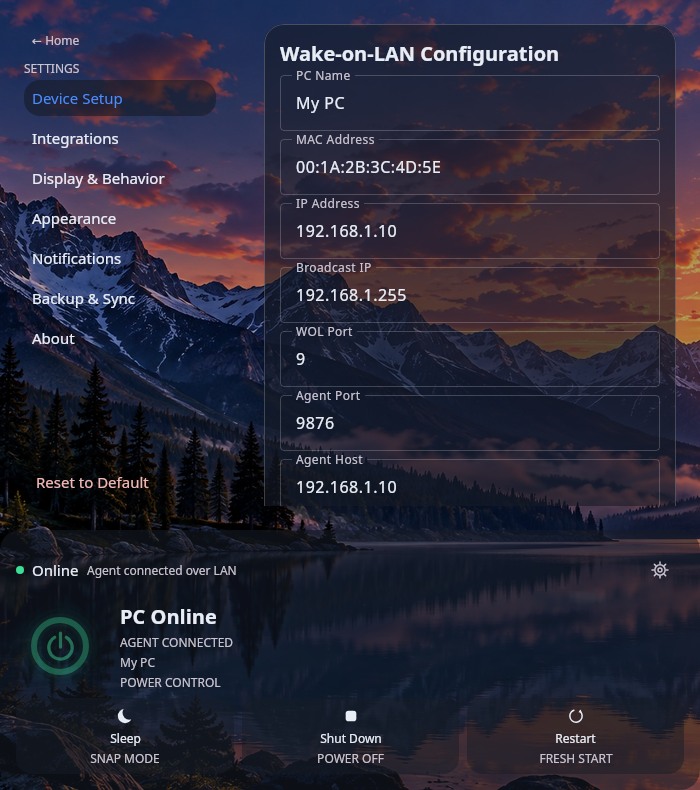
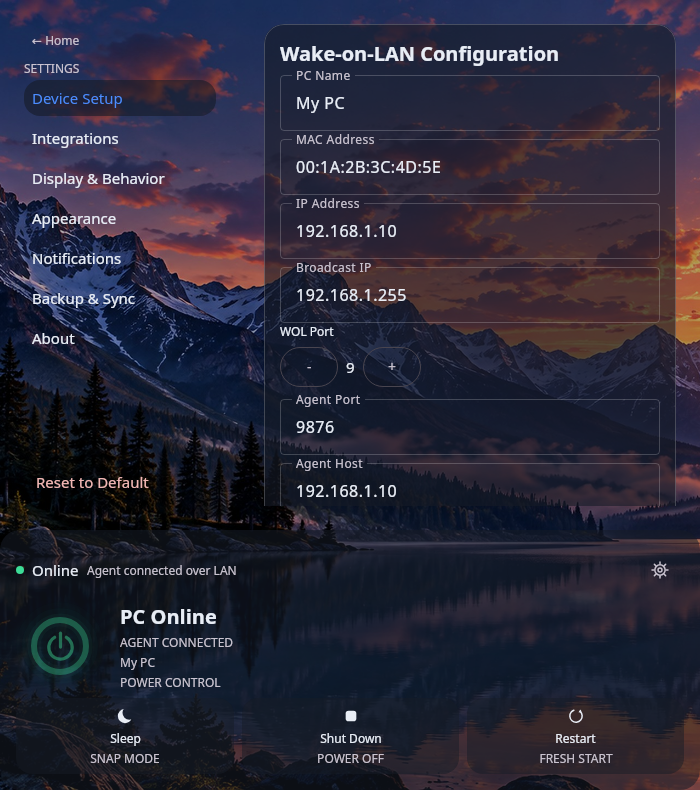
feat: turn saved computers into the device selector

Changed region(s): [[0.42, 0.4557, 0.57, 0.638], [0.57, 0.4861, 0.93, 0.5165], [0.39, 0.3949, 0.51, 0.4557]]

diff --git a/mobile/composeApp/src/desktopTest/kotlin/com/xukunz/wakeupmywall/ui/settings/SavedComputersTest.kt b/mobile/composeApp/src/desktopTest/kotlin/com/xukunz/wakeupmywall/ui/settings/SavedComputersTest.kt
@@ -1,0 +1,89 @@
+package com.xukunz.wakeupmywall.ui.settings
+
+import androidx.compose.ui.test.ExperimentalTestApi
+import androidx.compose.ui.test.onNodeWithTag
+import androidx.compose.ui.test.performClick
+import androidx.compose.ui.test.runComposeUiTest
+import com.xukunz.wakeupmywall.core.theme.WakeUpMyWallTheme
+import com.xukunz.wakeupmywall.domain.model.MacAddress
+import com.xukunz.wakeupmywall.domain.model.PcDevice
+import com.xukunz.wakeupmywall.domain.usecase.DeviceSetupInput
+import com.xukunz.wakeupmywall.domain.usecase.DeviceSetupValidator
+import kotlin.test.Test
+import kotlin.test.assertEquals
+
+@OptIn(ExperimentalTestApi::class)
+class SavedComputersTest {
+
+    private val devices = listOf(
+        PcDevice(id = "my-pc", name = "My PC", macAddress = MacAddress.parse("00:1A:2B:3C:4D:5E"), isDefault = true),
+        PcDevice(id = "study", name = "Study PC", macAddress = MacAddress.parse("00:1B:44:11:3A:9C")),
+    )
+
+    private val input = DeviceSetupInput("My PC", "00:1A:2B:3C:4D:5E", "", "192.168.1.255", "9", "9876", "")
+
+    private fun content(
+        devices: List<PcDevice> = this.devices,
+        onSelectDevice: (String) -> Unit = {},
+        onDeleteDevice: (String) -> Unit = {},
+        onAddDevice: () -> Unit = {},
+    ): @androidx.compose.runtime.Composable () -> Unit = {
+        WakeUpMyWallTheme {
+            DeviceSetupScreen(
+                input = input,
+                result = DeviceSetupValidator.validate(input),
+                devices = devices,
+                report = null,
+                isTesting = false,
+                onInputChange = {},
+                onSave = {},
+                onTestConnection = {},
+                onSelectDevice = onSelectDevice,
+                onDeleteDevice = onDeleteDevice,
+                onAddDevice = onAddDevice,
+            )
+        }
+    }
+
+    @Test
+    fun `rows select a device, delete reports an id and add is reachable`() = runComposeUiTest {
+        var selected: String? = null
+        var deleted: String? = null
+        var added = false
+        setContent(
+            content(
+                onSelectDevice = { selected = it },
+                onDeleteDevice = { deleted = it },
+                onAddDevice = { added = true },
+            ),
+        )
+
+        onNodeWithTag("device:row:study").performClick()
+        assertEquals("study", selected)
+
+        onNodeWithTag("device:delete:study").performClick()
+        assertEquals("study", deleted)
+
+        onNodeWithTag("device:add").performClick()
+        assertEquals(true, added)
+    }
+
+    @Test
+    fun `the default device is badged and the active row is the selected one`() = runComposeUiTest {
+        setContent(content(devices = devices))
+
+        onNodeWithTag("device:default:my-pc", useUnmergedTree = true).assertExists()
+        onNodeWithTag("device:row:my-pc").assertExists()
+        onNodeWithTag("device:row:study").assertExists()
+    }
+
+    @Test
+    fun `an empty list still offers the add button`() = runComposeUiTest {
+        var added = false
+        setContent(content(devices = emptyList(), onAddDevice = { added = true }))
+
+        onNodeWithTag("device:add").performClick()
+
+        assertEquals(true, added)
+    }
+}

diff --git a/mobile/composeApp/src/commonMain/kotlin/com/xukunz/wakeupmywall/ui/settings/DeviceSetupScreen.kt b/mobile/composeApp/src/commonMain/kotlin/com/xukunz/wakeupmywall/ui/settings/DeviceSetupScreen.kt
@@ -1,5 +1,6 @@
 package com.xukunz.wakeupmywall.ui.settings
 
+import androidx.compose.foundation.clickable
 import androidx.compose.foundation.layout.Arrangement
 import androidx.compose.foundation.layout.BoxWithConstraints
 import androidx.compose.foundation.layout.Column
@@ -10,6 +11,7 @@ import androidx.compose.foundation.layout.padding
 import androidx.compose.foundation.rememberScrollState
 import androidx.compose.foundation.verticalScroll
 import androidx.compose.material3.Button
+import androidx.compose.material3.IconButton
 import androidx.compose.material3.MaterialTheme
 import androidx.compose.material3.OutlinedButton
 import androidx.compose.material3.OutlinedTextField
@@ -28,6 +30,8 @@ import com.xukunz.wakeupmywall.core.theme.Spacing
 import com.xukunz.wakeupmywall.domain.model.PcDevice
 import com.xukunz.wakeupmywall.domain.usecase.DeviceSetupInput
 import com.xukunz.wakeupmywall.domain.usecase.DeviceSetupResult
+import com.xukunz.wakeupmywall.ui.icons.AppIcon
+import com.xukunz.wakeupmywall.ui.icons.AppIconKind
 import com.xukunz.wakeupmywall.ui.components.SectionHeader
 import com.xukunz.wakeupmywall.ui.components.Breakpoints
 import com.xukunz.wakeupmywall.ui.components.WidgetStyle
@@ -204,8 +208,12 @@ private fun SavedComputers(
         SectionHeader(title = "Saved Computers")
         devices.forEach { device ->
             Row(
-                modifier = Modifier.fillMaxWidth().testTag("device:saved:${device.id}"),
-                horizontalArrangement = Arrangement.SpaceBetween,
+                // 整行可点 = 把这台机器设为当前设备（默认设备的不变量由 DeviceRepository 维护）。
+                modifier = Modifier
+                    .fillMaxWidth()
+                    .clickable { onSelectDevice(device.id) }
+                    .testTag("device:row:${device.id}"),
+                horizontalArrangement = Arrangement.spacedBy(Spacing.sm),
                 verticalAlignment = Alignment.CenterVertically,
             ) {
                 Column(modifier = Modifier.weight(1f)) {
@@ -221,12 +229,22 @@ private fun SavedComputers(
                         text = "Default",
                         style = MaterialTheme.typography.labelSmall,
                         color = MaterialTheme.colorScheme.primary,
+                        modifier = Modifier.testTag("device:default:${device.id}"),
                     )
+                }
+                IconButton(
+                    onClick = { onDeleteDevice(device.id) },
+                    modifier = Modifier.testTag("device:delete:${device.id}"),
+                ) {
+                    AppIcon(kind = AppIconKind.Close, tint = MaterialTheme.colorScheme.onSurfaceVariant)
                 }
             }
         }
-        OutlinedButton(onClick = {}, modifier = Modifier.testTag("device:add")) {
-            Text("Add Device")
+        OutlinedButton(
+            onClick = onAddDevice,
+            modifier = Modifier.fillMaxWidth().testTag("device:add"),
+        ) {
+            Text("+ Add Device")
         }
     }
 }

diff --git a/mobile/composeApp/src/commonMain/kotlin/com/xukunz/wakeupmywall/ui/icons/AppIcons.kt b/mobile/composeApp/src/commonMain/kotlin/com/xukunz/wakeupmywall/ui/icons/AppIcons.kt
@@ -39,6 +39,9 @@ enum class AppIconKind {
     /** 新增（加号）。 */
     Plus,
 
+    /** 删除（叉号）。Saved Computers 每行的删除按钮。 */
+    Close,
+
     /** 待办已完成的对勾。 */
     Check,
 
@@ -100,6 +103,10 @@ fun AppIcon(
             AppIconKind.Plus -> {
                 drawPolyline(tint, stroke, 12f to 5f, 12f to 19f)
                 drawPolyline(tint, stroke, 5f to 12f, 19f to 12f)
+            }
+            AppIconKind.Close -> {
+                drawPolyline(tint, stroke, 6.8f to 6.8f, 17.2f to 17.2f)
+                drawPolyline(tint, stroke, 17.2f to 6.8f, 6.8f to 17.2f)
             }
             AppIconKind.Check -> drawPolyline(tint, stroke, 5.5f to 12.5f, 10f to 17f, 18.5f to 7f)
             AppIconKind.LocationPin -> drawLocationPin(tint, u, stroke)

diff --git a/mobile/composeApp/src/desktopTest/kotlin/com/xukunz/wakeupmywall/ui/settings/DeviceSetupScreenTest.kt b/mobile/composeApp/src/desktopTest/kotlin/com/xukunz/wakeupmywall/ui/settings/DeviceSetupScreenTest.kt
@@ -123,7 +123,7 @@ class DeviceSetupScreenTest {
         }
 
         onNodeWithTag("device:saved").assertExists()
-        onNodeWithTag("device:saved:desktop-alpha", useUnmergedTree = true).assertExists()
+        onNodeWithTag("device:row:desktop-alpha", useUnmergedTree = true).assertExists()
         onNodeWithTag("device:services").assertExists()
         onNodeWithTag("device:services:weather", useUnmergedTree = true)
             .assertTextEquals("OpenWeatherMap · Riverside, CA")
